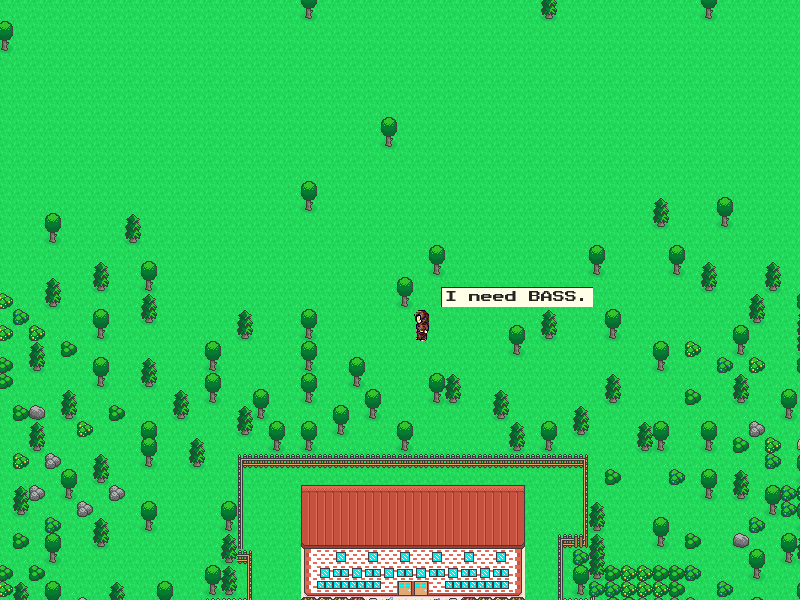
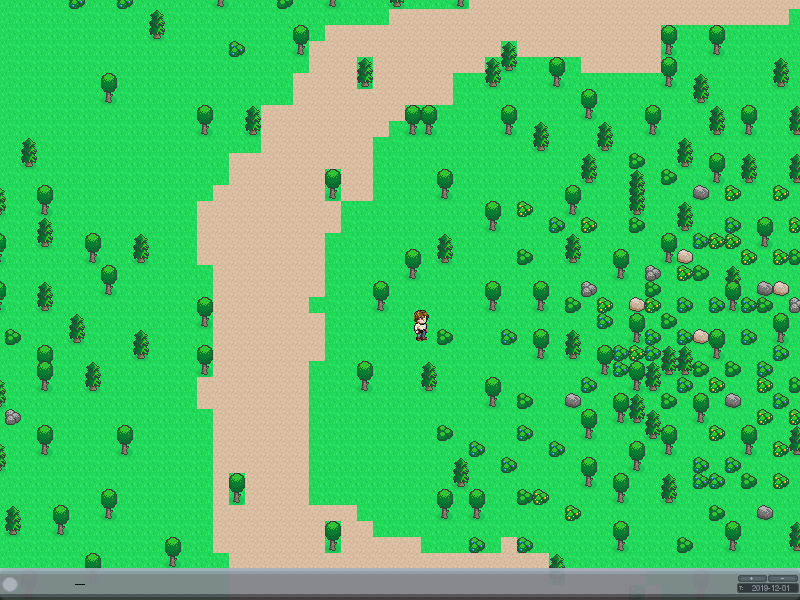
HUD

diff --git a/src/gameplay/game_play.py b/src/gameplay/game_play.py
@@ -18,19 +18,25 @@ class GamePlay:
         self.map = Map()  # Loads the current level
         self.player = Player(0, CONFIG.BASE_FOLDER + 'gfx/player/player.gif')
         self.can_show_hud = True
+        self.game_time = '2019-12-01'  # The time in which the player plays
 
         # Load the HUD
         self.hud_elements = []
         self.hud_width = 64
-        self.hud_height = 64
+        self.hud_height = 32
+        self.hud_game_time_sprite = CONFIG.hud_font.render(self.game_time, 1, (137, 136, 147,))
         hud_img = pygame.image.load(CONFIG.BASE_FOLDER + 'gfx/hud/hud.png').convert()
+        hud_img.set_alpha(240)
         hud_img.set_colorkey((0, 255, 0,))
 
         for x in range(3):
             hud_img.set_clip(pygame.Rect(x * self.hud_width, 0, self.hud_width, self.hud_height))
-            self.hud_elements.append(hud_img.subsurface(hud_img.get_clip()))
+            img = hud_img.subsurface(hud_img.get_clip())
+            self.hud_elements.append(pygame.transform.scale(img, (128, 64,)))
 
         # Scretch the center to fill any screen width
+        self.hud_width = 128
+        self.hud_height = 64
         self.hud_elements[1] = pygame.transform.scale(self.hud_elements[1], (CONFIG.WINDOW_WIDTH - 2 * self.hud_width, self.hud_height,))
 
         # Intro variables
@@ -54,7 +60,7 @@ class GamePlay:
 
         # Setup the current level
         if CONFIG.CURRENT_LEVEL == '0':
-            self.player.max_speed = 3
+            self.player.max_speed = 4
             self.player.set_pos(1347, 3857)
         else:
             # Set player to the center of the map
@@ -71,10 +77,14 @@ class GamePlay:
 
     def display(self, screen: pygame.Surface):
         if not self.intro_shown:
-            level_str = 'Level ' + str(int(CONFIG.CURRENT_LEVEL) + 1)
             screen.fill(CONFIG.BG_COLOR)
+
+            level_str = 'LEVEL ' + str(int(CONFIG.CURRENT_LEVEL) + 1)
             screen.blit(CONFIG.readable_font.render(level_str, 1, (240, 249, 255,)),
                         (CONFIG.WINDOW_WIDTH / 2 - (len(level_str) * CONFIG.CHARACTER_SIZE / 4), CONFIG.WINDOW_HEIGHT / 2,))
+
+            screen.blit(CONFIG.readable_font.render(self.game_time, 1, (240, 249, 255,)),
+                        (CONFIG.WINDOW_WIDTH / 2 - (len(level_str) * CONFIG.CHARACTER_SIZE / 4), CONFIG.WINDOW_HEIGHT / 2 + 2 * CONFIG.CHARACTER_SIZE,))
 
             if time.time() - self.intro_timer >= self.intro_time:
                 self.intro_shown = True
@@ -87,9 +97,7 @@ class GamePlay:
 
             # Display HUD
             if self.can_show_hud:
-                screen.blit(self.hud_elements[0], (0, CONFIG.WINDOW_HEIGHT - self.hud_height,))
-                screen.blit(self.hud_elements[1], (self.hud_width, CONFIG.WINDOW_HEIGHT - self.hud_height,))
-                screen.blit(self.hud_elements[2], (CONFIG.WINDOW_WIDTH - self.hud_width, CONFIG.WINDOW_HEIGHT - self.hud_height,))
+                self.show_hud(screen)
 
             for talk_box in self.talk_boxes:
                 if not talk_box.is_clicked:
@@ -104,3 +112,10 @@ class GamePlay:
                 entity.camera_x = self.player.camera_x
                 entity.camera_y = self.player.camera_y
                 entity.display(screen, self.map)
+
+    def show_hud(self, screen: pygame.Surface):
+        screen.blit(self.hud_elements[0], (0, CONFIG.WINDOW_HEIGHT - self.hud_height,))
+        screen.blit(self.hud_elements[1], (self.hud_width, CONFIG.WINDOW_HEIGHT - self.hud_height,))
+        screen.blit(self.hud_elements[2], (CONFIG.WINDOW_WIDTH - self.hud_width, CONFIG.WINDOW_HEIGHT - self.hud_height,))
+        
+        screen.blit(self.hud_game_time_sprite, (CONFIG.WINDOW_WIDTH - len(self.game_time) * 13 + 32, CONFIG.WINDOW_HEIGHT - 32,))

diff --git a/src/gfx/map.py b/src/gfx/map.py
@@ -115,10 +115,16 @@ class Map:
                             if entity.x_pos < x_pos + player.camera_x and entity.x_pos > x_pos + player.camera_x - self.tileset.tile_size[0] - entity.body.width / 4 and \
                                 entity.y_pos < y_pos + player.camera_y and entity.y_pos > y_pos + player.camera_y - self.tileset.tile_size[1] - entity.body.height / 2:
                                 
+                                
+                                entity.x_speed = 0
+                                entity.y_speed = 0
+
+                                """
                                 x_diff = entity.x_pos - x_pos - player.camera_x + self.tileset.tile_size[0]
                                 y_diff = entity.y_pos - y_pos - player.camera_y + self.tileset.tile_size[1]
 
-                                entity.x_pos += round(x_diff / 4)
-                                entity.y_pos += round(y_diff / 4)
+                                entity.x_pos += round(x_diff / 3)
+                                entity.y_pos += round(y_diff / 3)
+                                """
 
                     screen.blit(self.tileset.tiles[tile], (x_pos, y_pos,))

diff --git a/src/gfx/animation.py b/src/gfx/animation.py
@@ -36,13 +36,13 @@ class Animation:
             for i in range(self.max_frame):
                 anim_img.set_clip(pygame.Rect(i * self.width, j * self.height, self.width, self.height))
                 img = anim_img.subsurface(anim_img.get_clip())
-                anim_frames.append(pygame.transform.scale(img, (42, 42,)))
+                anim_frames.append(pygame.transform.scale(img, (32, 32,)))
                 # anim_frames.append(img)
             
             self.frames.append(anim_frames)
 
-        self.width = 42
-        self.height = 42
+        self.width = 32
+        self.height = 32
 
     def display(self, screen: pygame.Surface, entity: Entity):
         screen.blit(self.get_frame(entity.direction), (entity.x_pos - entity.camera_x, entity.y_pos - entity.camera_y,))

diff --git a/src/config.py b/src/config.py
@@ -95,6 +95,7 @@ class Config:
         self.text_box_font = pygame.font.Font(self.BASE_FOLDER + 'fonts/PressStart2P-Regular.ttf', self.TALK_BOX_FONT_SIZE)
         self.gui_font = pygame.font.Font(self.BASE_FOLDER + 'fonts/knewave.ttf', self.CHARACTER_SIZE)
         self.readable_font = pygame.font.Font(self.BASE_FOLDER + 'fonts/FreeSans.ttf', self.CHARACTER_SIZE)
+        self.hud_font = pygame.font.Font(self.BASE_FOLDER + 'fonts/FreeSans.ttf', 13)
         self.background_image = pygame.image.load(self.BASE_FOLDER + 'images/bg.png')
 
     def save(self, file_name: str=None):
